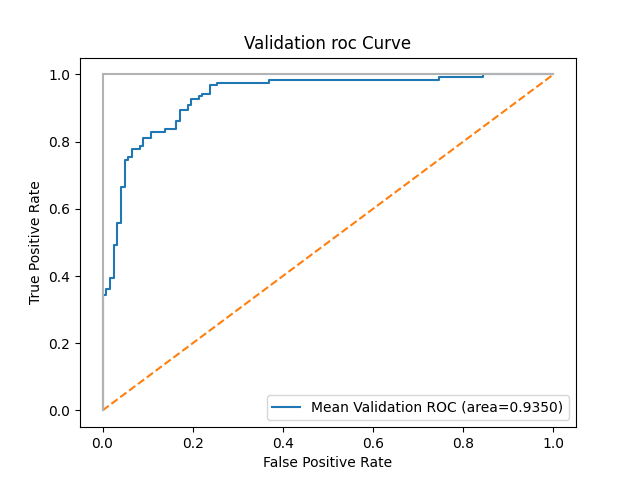
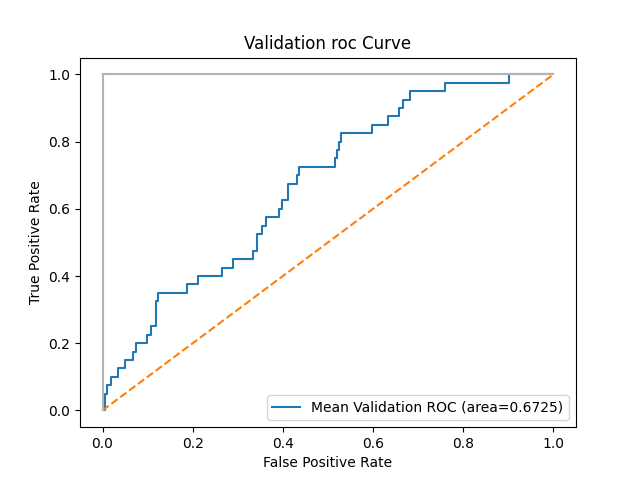
input features modified

diff --git a/static/js/iMedbot.js b/static/js/iMedbot.js
@@ -4,6 +4,10 @@ const PERSON_IMG = "static/img/woman.svg";
 const BOT_NAME = "iMedBot";
 PERSON_NAME = "You";
 var input_question = JSON.parse(input_question)
+var input_question10 = JSON.parse(input_question10)
+var input_question5 = JSON.parse(input_question5)
+
+
 var input = []
 const SURVEY = "BYE, It is my pleasure to help you,Have a nice day!How many stars you can give us?"
 
@@ -903,6 +907,21 @@ function showNext(e){
     }else {
         for (var i = 0; i < input_choice.length; i++) {
             if (Object.keys(input_choice[i].patterns).indexOf(pattern) != -1) {
+                console.log(input_choice[i].patterns[pattern])
+                if (input_choice[i].tag=="treatment_year")
+                {
+                    console.log("year")
+                    if (input_choice[i].patterns[pattern]=="10")
+                    {
+                        console.log(10)
+                        input_choice = input_question10["Predict"]
+                    }
+                    if (input_choice[i].patterns[pattern]=="5")
+                    {
+                    console.log(5)
+                        input_choice = input_question5["Predict"]
+                    }
+                }
                 input.push(input_choice[i].patterns[pattern])
                 nextques = input_choice[i].nextques
             }
@@ -917,11 +936,11 @@ function showNext(e){
     }
     for (var i = 0 ; i < input_choice.length; i++) {
         if (input_choice[i].tag == nextques){
+
             let index = Math.floor((Math.random()*input_choice[i].responses.length))
             msgText = input_choice[i].responses[index]
             btnGroup = Object.keys(input_choice[i].patterns)
             instruction = input_choice[i].instruction
-            console.log(input_choice[i])
         }
     }
     appendMessage(BOT_NAME, NURSE_IMG, "left", msgText, instruction, btnGroup);

diff --git a/templates/index.html b/templates/index.html
@@ -86,6 +86,9 @@
   <!-- partial -->
   <script src='https://use.fontawesome.com/releases/v5.0.13/js/all.js'></script>
   <script type="text/javascript" src="static/assets/input_question.js"></script>
+  <script type="text/javascript" src="static/assets/input_question10.js"></script>
+  <script type="text/javascript" src="static/assets/input_question5.js"></script>
+
   <script type="text/javascript" src="static/js/iMedbot.js"></script>
 
 

diff --git a/static/assets/input_question.js b/static/assets/input_question.js
@@ -79,3 +79,4 @@ input_question =
     '   "responses": ["Please check the chuhan dataset you uploaded and it will give your some basic stats"]'+
     '  }]\n'+
     '}'
+

diff --git a/application.py b/application.py
@@ -15,6 +15,7 @@ import shap
 from sklearn.model_selection import GridSearchCV, RandomizedSearchCV, StratifiedKFold, StratifiedShuffleSplit
 import matplotlib.pyplot as plt
 import joblib
+
 application = Flask(__name__)
 application.static_folder = 'static'
 bootstrap = Bootstrap(application)
@@ -24,14 +25,16 @@ model_15 = load_model('imedbot_model_five_input_15.h5')
 model_10 = load_model('model10.h5')
 model_5 = load_model('model5.h5')
 
+
 @application.route("/")
 def index():
     return render_template("index.html")
 
+
 @application.route("/get")
 def get_bot_response():
-    #speaker = tts.init()
-    #speaker.say("hello")
+    # speaker = tts.init()
+    # speaker.say("hello")
     result = {}
     button_group = ""
     instruction = ""
@@ -48,6 +51,7 @@ def get_bot_response():
     result["button_group"] = button_group
     result["instruction"] = instruction
     return result
+
 
 # def speak(response):
 #     speaker = tts.init()
@@ -68,18 +72,23 @@ def get_model_inputdata():
     input = input.lstrip("]")
     input = input.split(',')
     input = list(map(int, input))
+
+    # due to different discrete to digital map,
+    # transformation need according .txt in ../docs/informationprovidedfordevelopment/
+
     if input[0] == 15:
         res = model_15.predict(np.array([input[1:]]))
     elif input[0] == 10:
-        dcis=input[1]
-        size=input[2]
-        grade=input[3]
-        pr_percent=input[4]
-        location=input[5]
-        model_input=[0 for i in range(18)]
-        model_input[2]=pr_percent
-        model_input[9]=dcis
-        model_input[12]=grade
+        dcis = input[1]
+        size = input[2]
+        grade = input[3]
+        pr_percent = input[4]
+        location = input[5]
+
+        model_input = [0 for i in range(18)]
+        model_input[2] = pr_percent
+        model_input[9] = dcis
+        model_input[12] = grade
 
         res = model_10.predict(np.array([model_input]))
     elif input[0] == 5:
@@ -88,6 +97,7 @@ def get_model_inputdata():
         grade = input[3]
         pr_percent = input[4]
         location = input[5]
+
         model_input = [0 for i in range(20)]
         model_input[8] = pr_percent
         model_input[16] = size
@@ -98,17 +108,17 @@ def get_model_inputdata():
         res = "Sorry we only have 15 year model so far"
     return str(res)
 
-@application.route("/patientform",methods=['GET','POST'])
-def get_model_patientform():
 
+@application.route("/patientform", methods=['GET', 'POST'])
+def get_model_patientform():
     if request.method == "POST":
         dataset_name = request.form.get('dataset_name')
         shap_check = request.form.get("shap_check")
         print(shap_check)
         dataset_name_str = json.loads(dataset_name)
         print(dataset_name_str)
-        filename = os.path.join("dataset/",dataset_name_str)
-        predset, target,X_columns = modelTraining.loadandprocess(filename, predtype=1, scaled=False)
+        filename = os.path.join("dataset/", dataset_name_str)
+        predset, target, X_columns = modelTraining.loadandprocess(filename, predtype=1, scaled=False)
         print(X_columns)
         # ['race', 'ethnicity', 'smoking', 'alcohol_useage', 'family_history', 'age_at_diagnosis', 'menopause_status',
         #  'side', 'TNEG', 'ER', 'ER_percent', 'PR', 'PR_percent',
@@ -129,27 +139,27 @@ def get_model_patientform():
         for item in patient_input_list:
             category_list.append(int(item['value']))
         print(np.array([category_list]))
-        #[[2 0 1 1 2 1 1 0 0 1 1 1 1 1 0 1 1 2 1 1 1 1 2 1 1 0 2 3 1 1 1]]
+        # [[2 0 1 1 2 1 1 0 0 1 1 1 1 1 0 1 1 2 1 1 1 1 2 1 1 0 2 3 1 1 1]]
         user_training_model = load_model('user_training_model.h5')
 
         if shap_check == "true":
             def f(X):
                 # return best_model.predict(X).flatten()
-                #print("++++++++++++++++++++++++")
+                # print("++++++++++++++++++++++++")
                 result = []
                 for item in X:
-                    prob = user_training_model.predict_proba(item.reshape(1,len(predset[0])))
+                    prob = user_training_model.predict_proba(item.reshape(1, len(predset[0])))
                     # print(prob)
                     # print(prob[0][0])
                     result.append(prob[0][0])
                 print(np.array(result))
                 # the reason why we have 5 results is because we use kmeans to shrink the x_cv(background dataset) dataset to only 5 samples
-                #[0.4565038  0.3262849  0.3953898  0.23958007 0.3785722]
+                # [0.4565038  0.3262849  0.3953898  0.23958007 0.3785722]
 
                 print(type(result))
                 return np.array(result)
 
-            #shap.kmeans(data, K) to summarize the background as K samples, in our case it transfer
+            # shap.kmeans(data, K) to summarize the background as K samples, in our case it transfer
             X_train_summary = shap.kmeans(X_CV, 1)
             print(X_train_summary)
             # < shap.utils._legacy.DenseData object at 0x0000024682E412B0 >
@@ -160,24 +170,27 @@ def get_model_patientform():
             print("333333333333333333333333333333333333333")
             print(shap_values)
             print(explainer.expected_value)
-            #shap.waterfall_plot(shap.Explanation(values=shap_values, base_values=explainer.expected_value, data=np.array([category_list]),feature_names=X_columns))
-            shap.waterfall_plot(shap.Explanation(values=shap_values[0], base_values=explainer.expected_value, data=np.array([category_list])[0],feature_names=X_columns))
+            # shap.waterfall_plot(shap.Explanation(values=shap_values, base_values=explainer.expected_value, data=np.array([category_list]),feature_names=X_columns))
+            shap.waterfall_plot(shap.Explanation(values=shap_values[0], base_values=explainer.expected_value,
+                                                 data=np.array([category_list])[0], feature_names=X_columns))
             plt.savefig('static/img/shap/shap.png')
 
         res = user_training_model.predict_proba(np.array([category_list]))
-        res = str(res).replace('[','').replace(']','')
+        res = str(res).replace('[', '').replace(']', '')
         print(res)
     return res
 
-@application.route("/Examdataset",methods=['GET','POST'])
+
+@application.route("/Examdataset", methods=['GET', 'POST'])
 def get_model_Examdataset():
     if request.method == "POST":
         datasetname = request.form.get('name')
-        print("data set name is ",datasetname)
+        print("data set name is ", datasetname)
     validation_auc = train_mode(datasetname)
     return str(validation_auc)
 
-@application.route("/dataset",methods=['GET','POST'])
+
+@application.route("/dataset", methods=['GET', 'POST'])
 def get_model_dataset():
     if request.method == "POST":
         dataset = request.form.get('dataset')
@@ -187,12 +200,13 @@ def get_model_dataset():
     with open(upload_path, 'wb') as file:
         print("hello")
         for l in dataset:
-
             file.write(l.strip().encode("utf-8"))
             file.write('\n'.encode("utf-8"))
     validation_auc = train_mode(datasetname)
     return str(validation_auc)
-@application.route("/parameterExam",methods=['GET','POST'])
+
+
+@application.route("/parameterExam", methods=['GET', 'POST'])
 def get_model_parameter_exam():
     if request.method == "POST":
         datasetname = request.form.get('datasetname')
@@ -205,7 +219,8 @@ def get_model_parameter_exam():
     validation_auc = train_mode_parameter(datasetname, learningrate, batchsize, epochs, decay, dropoutrate)
     return str(validation_auc)
 
-@application.route("/parameter",methods=['GET','POST'])
+
+@application.route("/parameter", methods=['GET', 'POST'])
 def get_model_parameter():
     if request.method == "POST":
         datasetname = request.form.get('datasetname')
@@ -225,15 +240,16 @@ def get_model_parameter():
     validation_auc = train_mode_parameter(datasetname, learningrate, batchsize, epochs, decay, dropoutrate)
     return str(validation_auc)
 
-def train_mode_parameter(datasetname,learningrate, batchsize, epochs, decay, dropoutrate):
+
+def train_mode_parameter(datasetname, learningrate, batchsize, epochs, decay, dropoutrate):
     seed = 123
     nsplits = 5
     scores = "roc_auc"
     filename = os.path.join("dataset/", datasetname)
     if datasetname[-3:] == "txt":
-        predset, target,X_columns = modelTraining.loadandprocess(filename, predtype=1, scaled=False)
+        predset, target, X_columns = modelTraining.loadandprocess(filename, predtype=1, scaled=False)
     elif datasetname[-3:] == "csv":
-        predset, target,X_columns = modelTraining.loadandprocess(filename, sep=',', predtype=1, scaled=False)
+        predset, target, X_columns = modelTraining.loadandprocess(filename, sep=',', predtype=1, scaled=False)
     cur_params = {
         'mstruct': [(50, 1)],
         'idim': [len(predset[0])],
@@ -290,9 +306,5 @@ def train_mode(datasetname):
     return score_val
 
 
-
 if __name__ == "__main__":
     application.run(debug=True)
-
-
-
